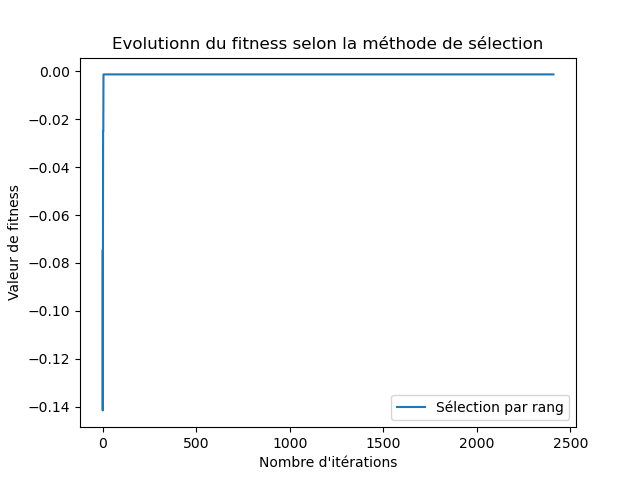
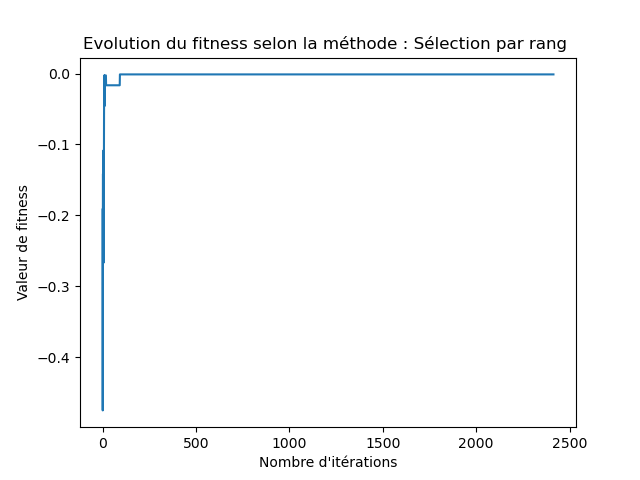
update report and figures

diff --git a/doc/report/report.md b/doc/report/report.md
@@ -473,8 +473,8 @@ Selon l'analyse qui a été effectuée, les paramètres représentés dans la @t
 | Méthode de mutation   | Inversion de 1 bit sur 10% des gènes avec une incidence de 30% |
 | Méthode de sélection  | Tournoi élitiste                                             |
 | Méthode de croisement | Echange de 4 parties                                         |
-| Nombre de gènes       | 50                                                           |
-| Taille de population  | 100                                                          |
+| Nombre de gènes       | 100                                                          |
+| Taille de population  | 200                                                          |
 
 : Paramètres de l'algorithme optimisé {#tbl:opti}
 
